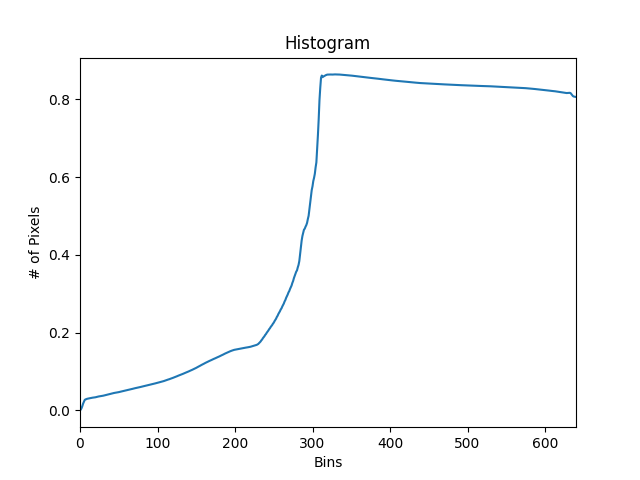
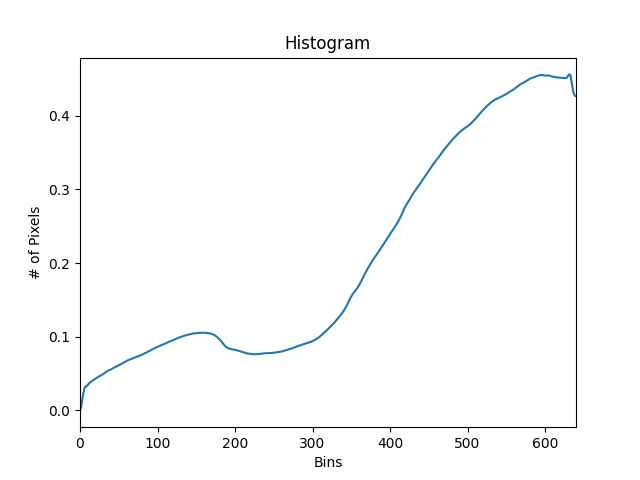
Simple client library for robot

diff --git a/robot/sensorFusion.py b/robot/sensorFusion.py
@@ -15,6 +15,7 @@ class SensorFusion:
         self.__interestMap = np.zeros(640)
 
         self.__filters = []
+        self.__filterResults = []
         self.__addFilters()
 
     def __addFilter(self, filter):
@@ -33,14 +34,31 @@ class SensorFusion:
         return self.__interestMap
     
     def updateInterestMap(self):
+        for filterResult in self.__filterResults:
+            filterResult.passTime()
+            if(filterResult.getTime() >= 15):
+                self.__filterResults.remove(filterResult)
+
         for filter in self.__filters:
             filterResult = filter.popResult()
 
             if(filterResult is not None):
-                self.__saveHist(filterResult.getInterestMap(), filter.getName()+"Interest.png")
+                #self.__saveHist(filterResult.getInterestMap(), filter.getName()+"Interest.png")
+                self.__filterResults.append(filterResult)
+
                 #self.__interestMap += filterResult.getInterestMap()
                 #self.__interestMap /= np.max(self.__interestMap)
                 #self.__saveHist(self.__interestMap, "interestMap.png")
+
+        self.__interestMap = np.zeros(640)
+        for filterResult in self.__filterResults:
+            self.__interestMap += filterResult.getInterestMap() * filterResult.getFilter().getWeight()
+        self.__interestMap /= np.max(self.__interestMap)
+        pos = np.argmax(self.__interestMap)/640
+        #print(pos)
+
+        #self.__saveHist(self.__interestMap, "interestMap.png")
+        
 
 
     def __saveHist(self, hist, file):

diff --git a/robot/main.py b/robot/main.py
@@ -3,25 +3,39 @@ from navigator import Navigator
 from camera import Camera
 from sensorFusion import SensorFusion
 
+from gps import GPS
+from client import Client
+
 import cv2
+from timer import Timer
 
+#camera = Camera()
 
-camera = Camera()
+#sensorFusion = SensorFusion(camera)
+#sensorFusion.startFilters()
 
-sensorFusion = SensorFusion(camera)
-sensorFusion.startFilters()
+client = Client()
+gps = GPS()
 
-
+sendLocationTimer = Timer(5)
 
 while True:
-    frame = camera.readFrame()
-   
-    sensorFusion.updateInterestMap()
+    #frame = camera.readFrame()
+    #print("main")
+
+    if(sendLocationTimer.check()):
+        lat, long = gps.getCoords()
+        print(lat)
+        if(lat is not None and long is not None):
+            client.sendRobotLocation(lat, long)
+            print("Sending Location...")
+
+    #sensorFusion.updateInterestMap()
 
     if cv2.waitKey(1) == ord('q'):
         break
 
-camera.close()
+#camera.close()
 cv2.destroyAllWindows()
 
 navigator = Navigator()

diff --git a/robot/filters/forwardBias.py b/robot/filters/forwardBias.py
@@ -4,23 +4,26 @@ import numpy as np
 import scipy.stats as stats
 
 import math
+import time
 
 class ForwardBias(Filter):
-    def __init__(self, weight=0.4):
+    def __init__(self, weight=0.15):
         super().__init__(weight)
         
     def getName(self):
         return "forwardBias"
     
     def run(self):
+        mu = 0
+        variance = 1
+
+        sigma = math.sqrt(variance)
+
+        x = np.linspace(mu - 3*sigma, mu + 3*sigma, self.getWidth())
+        hist = stats.norm.pdf(x, mu, sigma)
+        hist /= np.max(hist)
+
         while True:
-            mu = 0
-            variance = 1
-
-            sigma = math.sqrt(variance)
-
-            x = np.linspace(mu - 3*sigma, mu + 3*sigma, self.getWidth())
-            hist = stats.norm.pdf(x, mu, sigma)
-            hist /= np.max(hist)
-
-            self.addResult(FilterResult(hist))
+            #print("forward")
+            self.addResult(FilterResult(self, hist))
+            time.sleep(0.5)

diff --git a/robot/filters/filter.py b/robot/filters/filter.py
@@ -4,9 +4,14 @@ from threading import Thread
 import numpy as np
 
 class FilterResult:
-    def __init__(self, interestMap=np.ones(640), uncertanityMap=np.zeros(640)):
+    def __init__(self, filter, interestMap=np.ones(640), uncertanityMap=np.zeros(640)):
+        self.__filter = filter
         self.__interestMap = interestMap
         self.__uncertanityMap = uncertanityMap
+        self.__time = 0
+
+    def getFilter(self):
+        return self.__filter
 
     def setInterestMap(self, interestMap):
         self.__interestMap = interestMap
@@ -19,12 +24,17 @@ class FilterResult:
 
     def getUncertanityMap(self):
         return self.__uncertanityMap
+    
+    def passTime(self):
+        self.__time+=1
+    
+    def getTime(self):
+        return self.__time
 
 class Filter(ABC, Thread):
     def __init__(self, weight = 1.0):
         self.__weight = weight
         self.__stack = []
-
         self.__width = 640
 
         Thread.__init__(self)

diff --git a/robot/gps.py b/robot/gps.py
@@ -5,7 +5,7 @@ class GPS:
         self.__sp = Serial('/dev/ttyACM0', 4800, timeout=1.0)
         self.__timeoutStep = 100
 
-    def convert(self, latStr, longStr):
+    def __convert(self, latStr, longStr):
         latDeg = int(latStr[0:2])
         latMin = float(latStr[2:len(latStr) - 1]) / 60
         latitude = latDeg + latMin
@@ -35,8 +35,8 @@ class GPS:
                     if(latStr != '' and longStr != ''):
                         latitude, longitude = self.__convert(latStr, longStr)
                     break
-            except:
-                print("GPS Error!")
+            except Exception as e:
+                print("GPS Error: " + str(e))
                 break
 
 
@@ -45,9 +45,10 @@ class GPS:
     def close(self):
         self.__sp.close()
 
-"""
+
 gps = GPS()
 
+"""
 while True:
     lat, long = gps.getCoords()
     print("Latitude: " + str(lat) + " Longitude: " + str(long))"""

diff --git a/robot/filters/randomBias.py b/robot/filters/randomBias.py
@@ -2,11 +2,12 @@ from filters.filter import Filter, FilterResult
 
 import numpy as np
 import random
+import time
 
 from perlin_noise import PerlinNoise
 
 class RandomBias(Filter):
-    def __init__(self, weight=0.2):
+    def __init__(self, weight=0.05):
         super().__init__(weight)
         self.__noise = PerlinNoise(octaves=1, seed=random.randint(0,99999999)) 
         
@@ -16,6 +17,7 @@ class RandomBias(Filter):
     def run(self):
         offset = 0
         while True:
+            #print("random")
             x = [(t * 0.003) for t in range(self.getWidth())]
 
             hist = np.array([self.__noise([t, offset]) for t in x])
@@ -24,4 +26,6 @@ class RandomBias(Filter):
             #hist = (hist + 1) / 2
 
             offset += 0.0001
-            self.addResult(FilterResult(hist))
+            self.addResult(FilterResult(self, hist))
+
+            time.sleep(0.2)

diff --git a/robot/filters/depthFilter.py b/robot/filters/depthFilter.py
@@ -25,6 +25,8 @@ class DepthFilter(Filter):
             if(frame is None):
                 continue
 
+            #print("depth")
+
             gray = cv2.cvtColor(frame, cv2.COLOR_BGR2RGB)
 
             imgbatch = self.__transform(gray).to('cpu')
@@ -43,4 +45,7 @@ class DepthFilter(Filter):
             hist /= np.max(hist)
             hist = 1 - hist
 
-            self.addResult(FilterResult(hist))
+            cv2.imwrite("temp/depthMap.png", output)
+            cv2.imwrite("temp/frame.png", frame)
+
+            self.addResult(FilterResult(self, hist))

diff --git a/robot/client.py b/robot/client.py
@@ -1,3 +1,11 @@
 import requests
 
-response = requests.post('161.35.251.92/robot', data = {'test':'hello'})
+class Client:
+    def __init__(self, ipAddress = "161.35.251.92"):
+        self.__address = "http://" + str(ipAddress)
+
+    def __gps2str(self, lat, long):
+        return "lat="+str(lat)+"&"+"long="+str(long)
+
+    def sendRobotLocation(self, latitude, longitude):
+        response = requests.get(self.__address + "/robot-set-location?"+self.__gps2str(latitude, longitude))

diff --git a/robot/timer.py b/robot/timer.py
@@ -1,0 +1,18 @@
+import time
+
+class Timer:
+    def __init__(self, duration):
+        self.__duration = duration
+        self.__start = time.time()
+
+    def setDuration(self, duration):
+        self.__duration = duration
+
+    def getDuration(self):
+        return self.__duration
+
+    def check(self):
+        if((time.time() - self.__start) > self.__duration):
+            self.__start = time.time()
+            return True
+        return False
